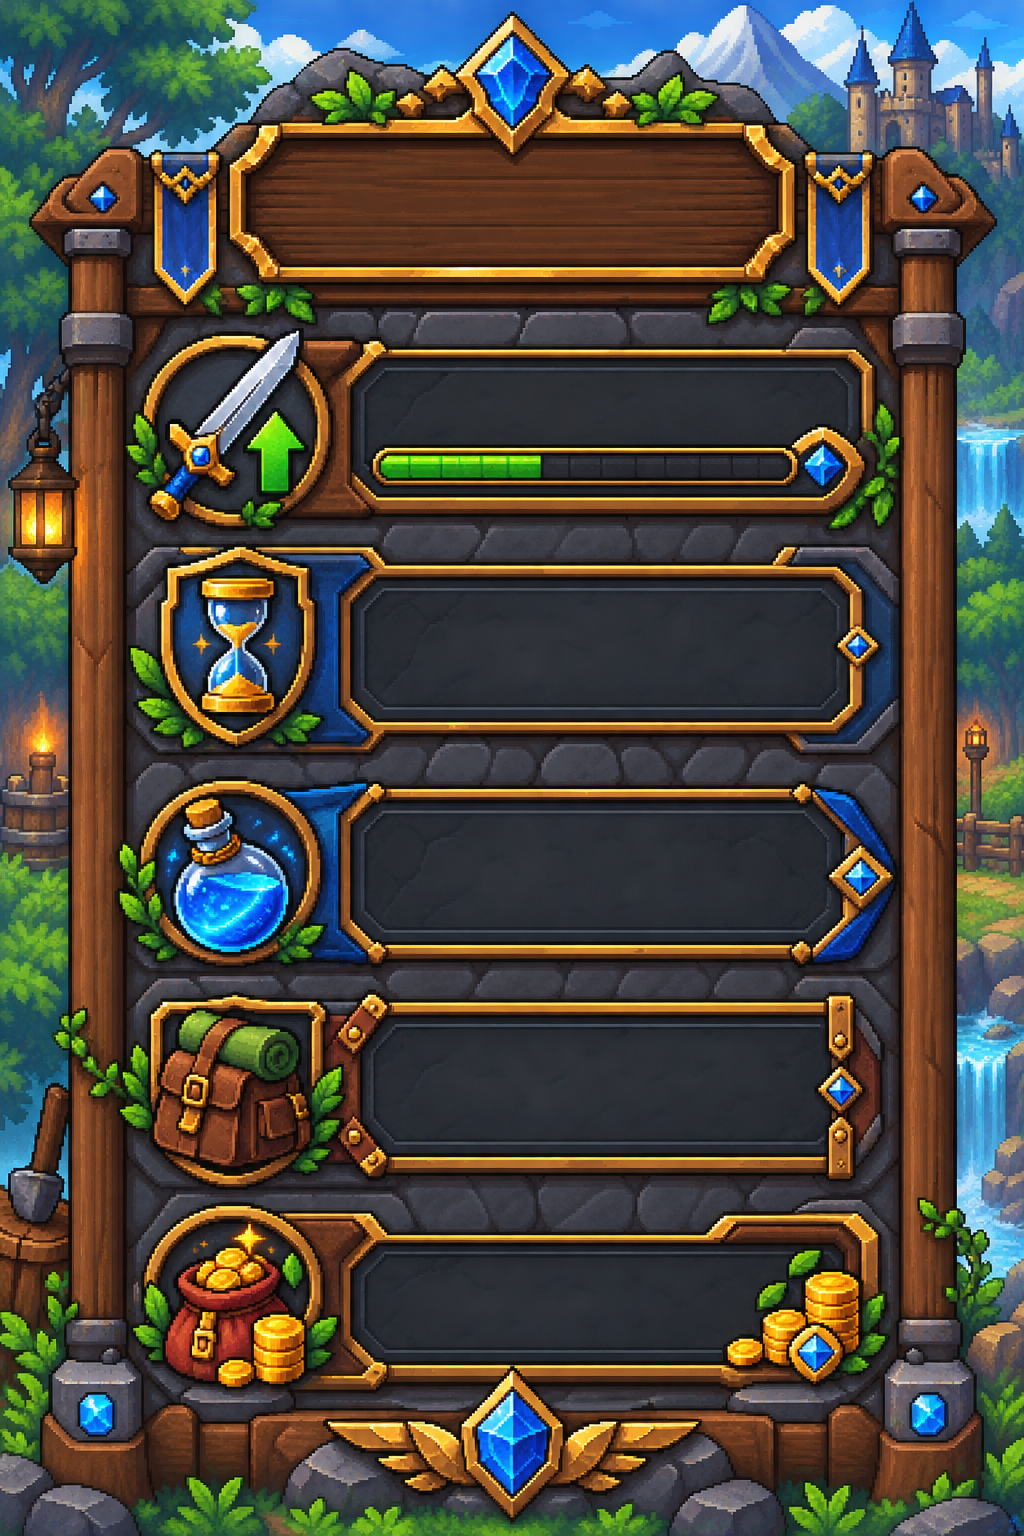
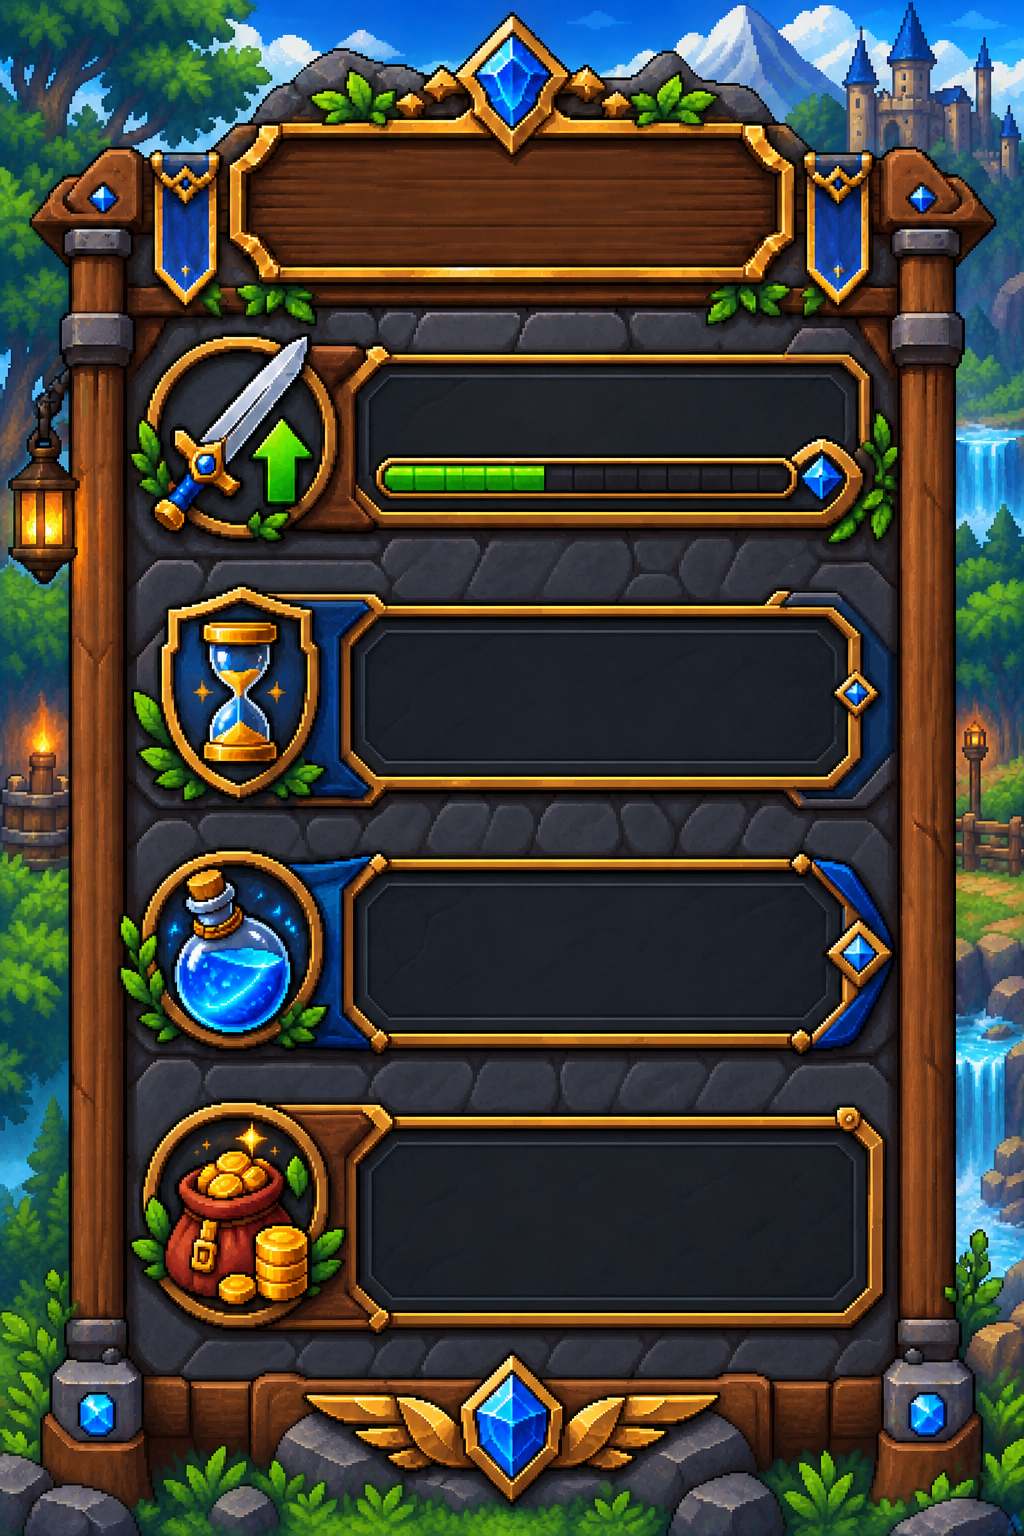
Remove packs from upskill card

diff --git a/commands/fun/rucoy_card.go b/commands/fun/rucoy_card.go
@@ -40,22 +40,23 @@ func generateRucoyUpskillCard(data RucoyUpskillCardData) ([]byte, error) {
 	green := color.RGBA{R: 139, G: 221, B: 59, A: 255}
 	blue := color.RGBA{R: 93, G: 210, B: 255, A: 255}
 
-	drawCenteredFitPixelText(card, "UPSKILL RUCOY", 512, 148, 510, 5, gold)
-	drawCenteredFitPixelText(card, fmt.Sprintf("%d -> %d", data.FromSkill, data.ToSkill), 615, 365, 450, 5, green)
+	panelCenterX := 596
+
+	drawCenteredFitPixelText(card, "UPSKILL RUCOY", 512, 150, 500, 5, gold)
+	drawCenteredFitPixelText(card, fmt.Sprintf("%d -> %d", data.FromSkill, data.ToSkill), panelCenterX, 365, 450, 5, green)
 
 	timeText := compactRucoyDuration(data.EstimatedTime)
-	drawCenteredFitPixelText(card, strings.ToUpper(data.Options.Vocation), 590, 590, 500, 4, gold)
-	drawCenteredFitPixelText(card, "TEMPO "+timeText, 590, 645, 500, 4, cream)
+	drawCenteredFitPixelText(card, strings.ToUpper(data.Options.Vocation), panelCenterX, 595, 500, 4, gold)
+	drawCenteredFitPixelText(card, "TEMPO "+timeText, panelCenterX, 650, 500, 4, cream)
 	if data.DailyHours > 0 {
-		drawCenteredFitPixelText(card, compactRucoyDailyDuration(data.EstimatedTime, data.DailyHours), 590, 700, 500, 2, blue)
+		drawCenteredFitPixelText(card, compactRucoyDailyDuration(data.EstimatedTime, data.DailyHours), panelCenterX, 705, 500, 2, blue)
 	}
 
-	drawCenteredFitPixelText(card, "MANA "+formatRucoyCardNumber(data.ManaEstimate.TotalMana), 590, 805, 530, 4, blue)
-	drawCenteredFitPixelText(card, fmt.Sprintf("POTIONS %s - %s", formatRucoyCardNumber(data.ManaEstimate.MinPotions), formatRucoyCardNumber(data.ManaEstimate.MaxPotions)), 590, 865, 530, 4, cream)
+	drawCenteredFitPixelText(card, "MANA "+formatRucoyCardNumber(data.ManaEstimate.TotalMana), panelCenterX, 865, 530, 4, blue)
+	drawCenteredFitPixelText(card, fmt.Sprintf("POTIONS %s - %s", formatRucoyCardNumber(data.ManaEstimate.MinPotions), formatRucoyCardNumber(data.ManaEstimate.MaxPotions)), panelCenterX, 925, 530, 4, cream)
 
-	drawCenteredFitPixelText(card, fmt.Sprintf("PACKS %s - %s", formatRucoyNumber(data.ManaEstimate.MinPacks), formatRucoyNumber(data.ManaEstimate.MaxPacks)), 590, 1085, 530, 4, cream)
-	drawCenteredFitPixelText(card, "GOLD", 555, 1260, 620, 4, gold)
-	drawCenteredFitPixelText(card, fmt.Sprintf("%s - %s", formatRucoyCardNumber(data.ManaEstimate.MinCost), formatRucoyCardNumber(data.ManaEstimate.MaxCost)), 555, 1320, 620, 3, cream)
+	drawCenteredFitPixelText(card, "GOLD", panelCenterX, 1180, 620, 4, gold)
+	drawCenteredFitPixelText(card, fmt.Sprintf("%s - %s", formatRucoyCardNumber(data.ManaEstimate.MinCost), formatRucoyCardNumber(data.ManaEstimate.MaxCost)), panelCenterX, 1245, 620, 3, cream)
 
 	var out bytes.Buffer
 	if err := jpeg.Encode(&out, card, &jpeg.Options{Quality: 92}); err != nil {

diff --git a/commands/fun/rucoy.go b/commands/fun/rucoy.go
@@ -194,8 +194,6 @@ type RucoyUpskillManaEstimate struct {
 	TotalMana  int64
 	MinPotions int64
 	MaxPotions int64
-	MinPacks   int64
-	MaxPacks   int64
 	MinCost    int64
 	MaxCost    int64
 }
@@ -972,8 +970,6 @@ func calculateRucoyUpskillManaEstimate(estimatedTime string, tickrate int, optio
 		TotalMana:  totalMana,
 		MinPotions: minPotions,
 		MaxPotions: maxPotions,
-		MinPacks:   minPacks,
-		MaxPacks:   maxPacks,
 		MinCost:    minCost,
 		MaxCost:    maxCost,
 	}, true
@@ -981,13 +977,11 @@ func calculateRucoyUpskillManaEstimate(estimatedTime string, tickrate int, optio
 
 func formatRucoyUpskillManaEstimate(options RucoyUpskillOptions, estimate RucoyUpskillManaEstimate) string {
 	return fmt.Sprintf(
-		"Gasto estimado com Ultimate Mana Potion\nClasse: %s\nMana total: %s\nPotions: %s a %s\nPacks de 200: %s a %s\nCusto: %s a %s gold",
+		"Gasto estimado com Ultimate Mana Potion\nClasse: %s\nMana total: %s\nPotions: %s a %s\nCusto: %s a %s gold",
 		options.Vocation,
 		formatRucoyNumber(estimate.TotalMana),
 		formatRucoyNumber(estimate.MinPotions),
 		formatRucoyNumber(estimate.MaxPotions),
-		formatRucoyNumber(estimate.MinPacks),
-		formatRucoyNumber(estimate.MaxPacks),
 		formatRucoyNumber(estimate.MinCost),
 		formatRucoyNumber(estimate.MaxCost),
 	)

diff --git a/commands/fun/rucoy_http_test.go b/commands/fun/rucoy_http_test.go
@@ -325,13 +325,15 @@ func TestUpskillWithManaEstimate(t *testing.T) {
 		"Classe: Kina",
 		"Mana total: 6.625.000",
 		"Potions: 7.362 a 11.042",
-		"Packs de 200: 37 a 56",
 		"Custo: 4.810.000 a 7.280.000 gold",
 	}
 	for _, part := range expectedParts {
 		if !strings.Contains(text, part) {
 			t.Errorf("expected upskill mana reply to contain %q, got %q", part, text)
 		}
+	}
+	if strings.Contains(strings.ToLower(text), "pack") {
+		t.Errorf("expected upskill mana reply not to mention packs, got %q", text)
 	}
 	if strings.Contains(text, "Treinando 8h por dia") {
 		t.Errorf("expected no daily training estimate when daily hours are omitted, got %q", text)

diff --git a/commands/fun/rucoy_test.go b/commands/fun/rucoy_test.go
@@ -241,13 +241,15 @@ func TestFormatRucoyUpskillManaEstimate(t *testing.T) {
 		"Classe: Kina",
 		"Mana total: 6.625.000",
 		"Potions: 7.362 a 11.042",
-		"Packs de 200: 37 a 56",
 		"Custo: 4.810.000 a 7.280.000 gold",
 	}
 	for _, part := range expectedParts {
 		if !strings.Contains(got, part) {
 			t.Errorf("expected mana estimate to contain %q, got %q", part, got)
 		}
+	}
+	if strings.Contains(strings.ToLower(got), "pack") {
+		t.Errorf("expected mana estimate not to mention packs, got %q", got)
 	}
 }
 

diff --git a/commands/fun/rucoy_card_test.go b/commands/fun/rucoy_card_test.go
@@ -22,8 +22,6 @@ func TestGenerateRucoyUpskillCard(t *testing.T) {
 			TotalMana:  6625000,
 			MinPotions: 7362,
 			MaxPotions: 11042,
-			MinPacks:   37,
-			MaxPacks:   56,
 			MinCost:    4810000,
 			MaxCost:    7280000,
 		},
